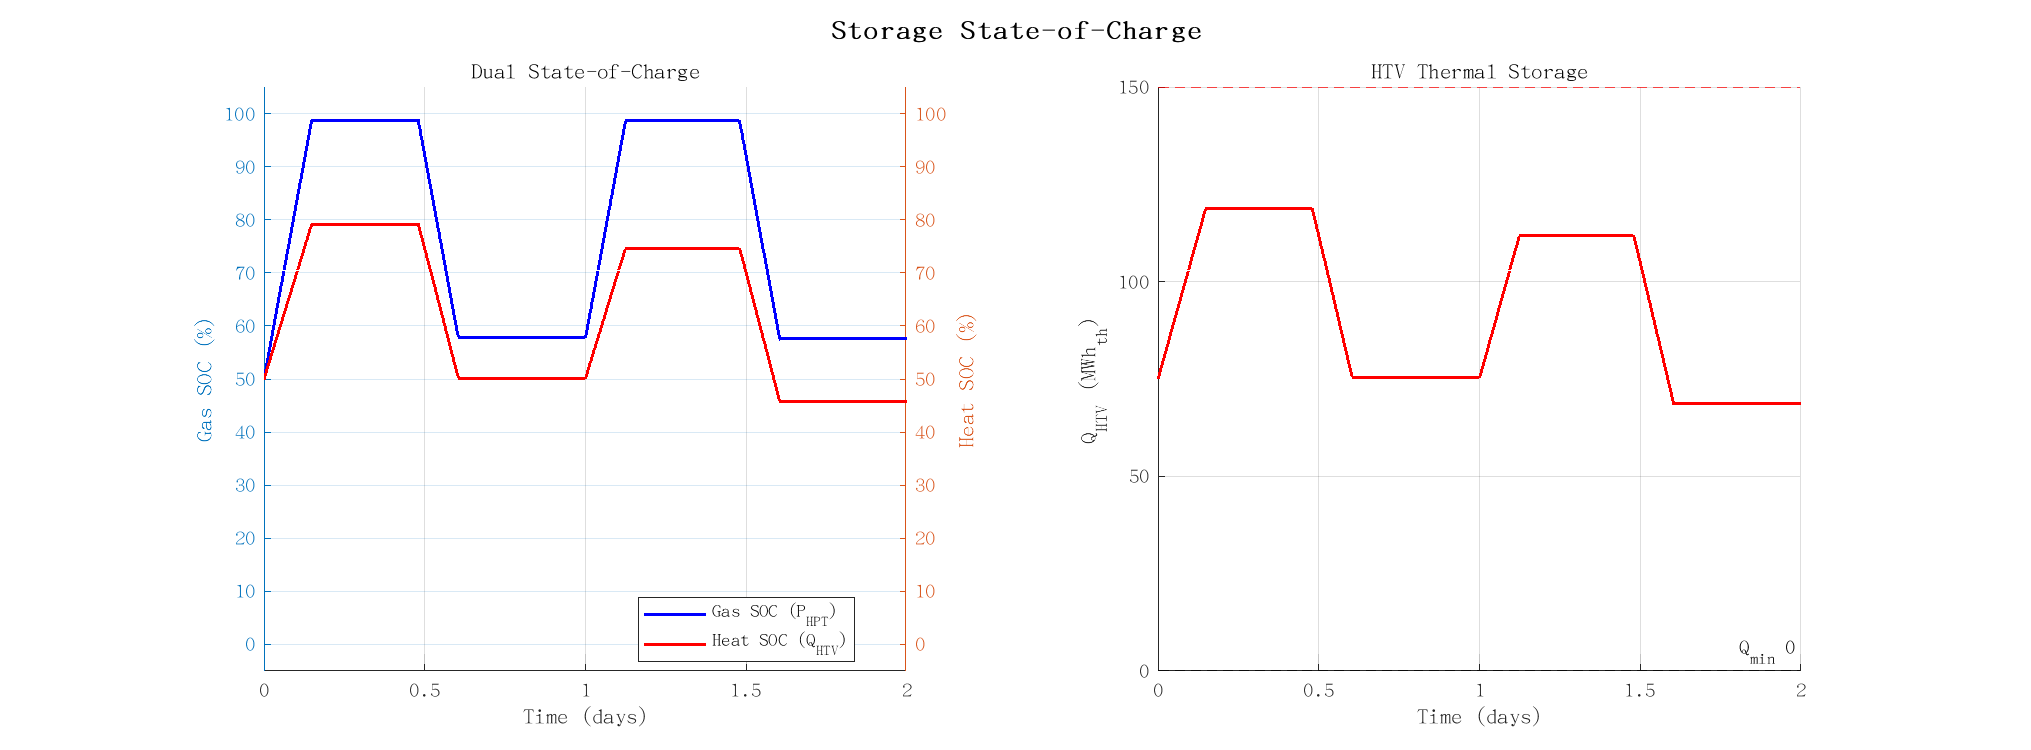
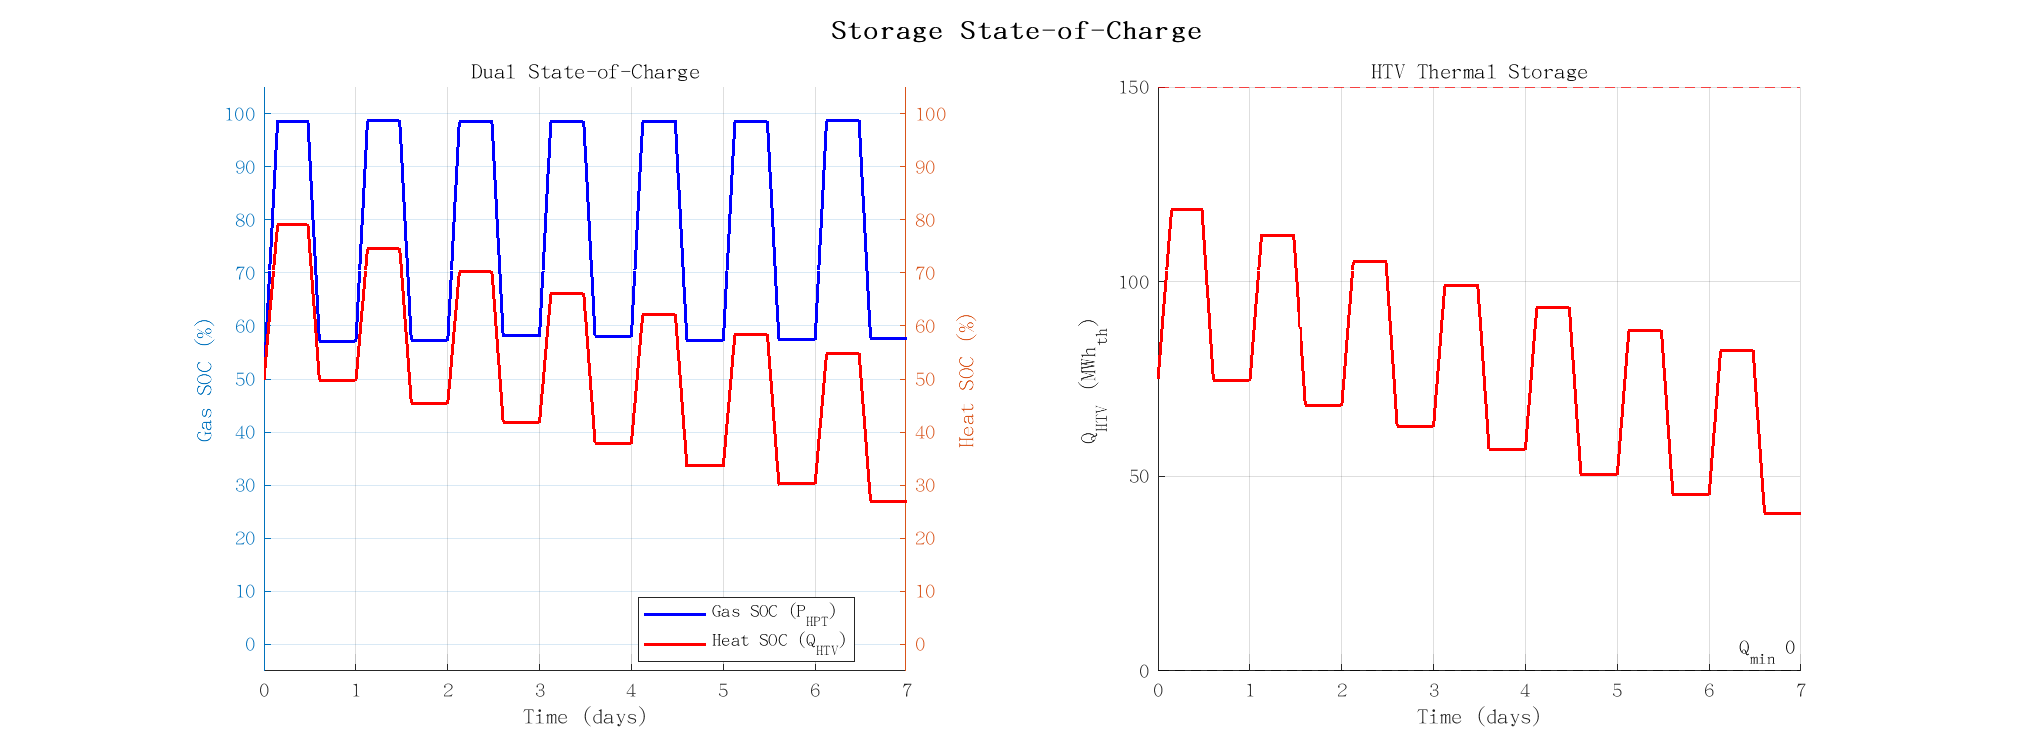
feat: extend ODE simulation to 21 days with coarser step
21-day run shows Heat SOC decaying 75→8 MWh, stabilizing near
8-10 MWh by day 18. T_heat drops from 483K to ~350K. This is
the closed-cycle thermal equilibrium without external heat input.

diff --git a/CCES_CHP_Simulink/src/ode/run_ode_simulation.m b/CCES_CHP_Simulink/src/ode/run_ode_simulation.m
@@ -22,10 +22,10 @@ T_tank_0 = 298;
 x0 = [m_HPT_0; Q_init; T_tank_0];
 
 %% 仿真
-dt = 120;  t_sim = 7 * 86400;  tspan = 0:dt:t_sim;
-fprintf('CCES-CHP ODE仿真 (7天, REFPROP+动态T): 充电7.5h, 放电3h\n');
+dt = 180;  t_sim = 21 * 86400;  tspan = 0:dt:t_sim;
+fprintf('CCES-CHP ODE仿真 (21天, REFPROP+动态T): 充电7.5h, 放电3h\n');
 
-opts = odeset('RelTol', 1e-4, 'MaxStep', 600);
+opts = odeset('RelTol', 2e-4, 'MaxStep', 900);
 [t, x] = ode45(@ode_dynamics, tspan, x0, opts);
 
 %% 后处理

diff --git a/CCES_CHP_Simulink/output/ode/FIGURES.md b/CCES_CHP_Simulink/output/ode/FIGURES.md
@@ -1,6 +1,6 @@
 # CCES-CHP ODE 仿真图表说明
 
-7 天动态仿真，模型：3 状态 ODE（HPT 质量、HTV 蓄热、储罐温度），物性由 REFPROP 实时计算。
+21 天动态仿真，模型：3 状态 ODE（HPT 质量、HTV 蓄热、储罐温度），物性由 REFPROP 实时计算。
 
 ---
 
